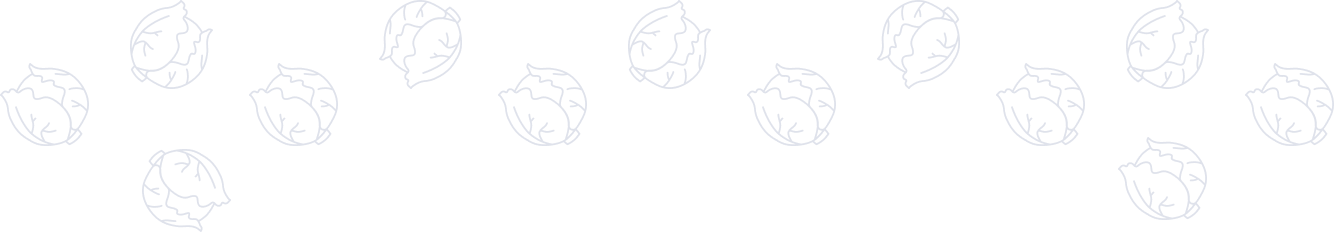
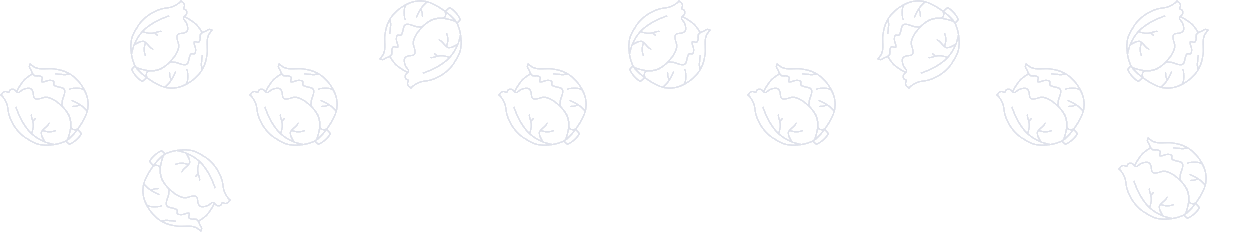
correct background in different media

diff --git a/src/styles/components/_background.scss b/src/styles/components/_background.scss
@@ -23,15 +23,15 @@
   &__login-bottom {
     background-image: url('../../assets/images/kapusta.png');
     position: absolute;
-    bottom: 50px;
+    bottom: 0;
     width: 100%;
     height: 142px;
     background-repeat: no-repeat;
     background-position-x: 230px;
-    @include tablet {
-      background-position-x: 103px;
-      bottom: 56px;
-    }
+    // @include tablet {
+    //   background-position-x: 103px;
+    //   bottom: 56px;
+    // }
     @include mobile {
       background-image: url('../../assets/images/kapust.png');
       background-position: bottom 0px left 35px, 0;
@@ -51,15 +51,15 @@
     }
   }
   &__main-bottom {
-    background-image: url('../../assets/images/kapustas.png');
+    background-image: url('../../assets/images/kapustas_bottom.png');
     position: absolute;
     background-repeat: repeat-x;
     // background-size: cover;
-    bottom: 0;
+    bottom: -20px;
     left: 0;
     width: 100%;
     height: 232px;
-    @include tablet {
+    @media screen and (min-width: $tablet) and (max-width: $desktop) {
       bottom: 64px;
       background-image: url('../../assets/images/kapusta.png');
       background-repeat: no-repeat;

diff --git a/src/styles/components/_BalanceHeader.scss b/src/styles/components/_BalanceHeader.scss
@@ -10,7 +10,8 @@
     display: none;
   }
 
-  @include tablet {
+  // @include tablet {
+  @media screen and (min-width: $tablet) and (max-width: $desktop) {
     grid-template-columns: 1fr 1fr;
     .balance {
       justify-content: right;
@@ -63,7 +64,7 @@
         padding-right: 15px;
       }
 
-      @include tablet {
+      @media screen and (min-width: $tablet) and (max-width: $desktop) {
         display: none;
       }
     }
@@ -74,7 +75,8 @@
       display: none;
     }
 
-    @include tablet {
+    // @include tablet {
+    @media screen and (min-width: $tablet) and (max-width: $desktop) {
       grid-template-columns: 1fr 1fr 1fr;
 
       & .balance {

diff --git a/src/styles/components/_mainTitle.scss b/src/styles/components/_mainTitle.scss
@@ -18,10 +18,14 @@
     line-height: 1.177;
     margin: 0;
     letter-spacing: -0.01em;
-    @include tablet {
+    @media screen and (min-width: $tablet) {
       font-size: 80px;
       line-height: 1.177;
     }
+    // @include tablet {
+    //   font-size: 80px;
+    //   line-height: 1.177;
+    // }
     @include mobile {
       font-size: 50px;
     }

diff --git a/src/styles/components/_Balance.scss b/src/styles/components/_Balance.scss
@@ -20,7 +20,7 @@
     letter-spacing: 0.02em;
     color: rgba(82, 85, 95, 0.7);
     margin-right: 31px;
-    @include tablet {
+    @media screen and (min-width: $tablet) and (max-width: $desktop) {
       margin-right: 21px;
     }
     @include mobile {

diff --git a/src/styles/utils/_mixins.scss b/src/styles/utils/_mixins.scss
@@ -11,13 +11,13 @@
 }
 
 @mixin tablet {
-  @media (max-width: 1199px) {
+  @media (max-width: 1279px) {
     @content;
   }
 }
 
 @mixin desktop {
-  @media (min-width: 1200px) {
+  @media (min-width: 1280px) {
     @content;
   }
 }
